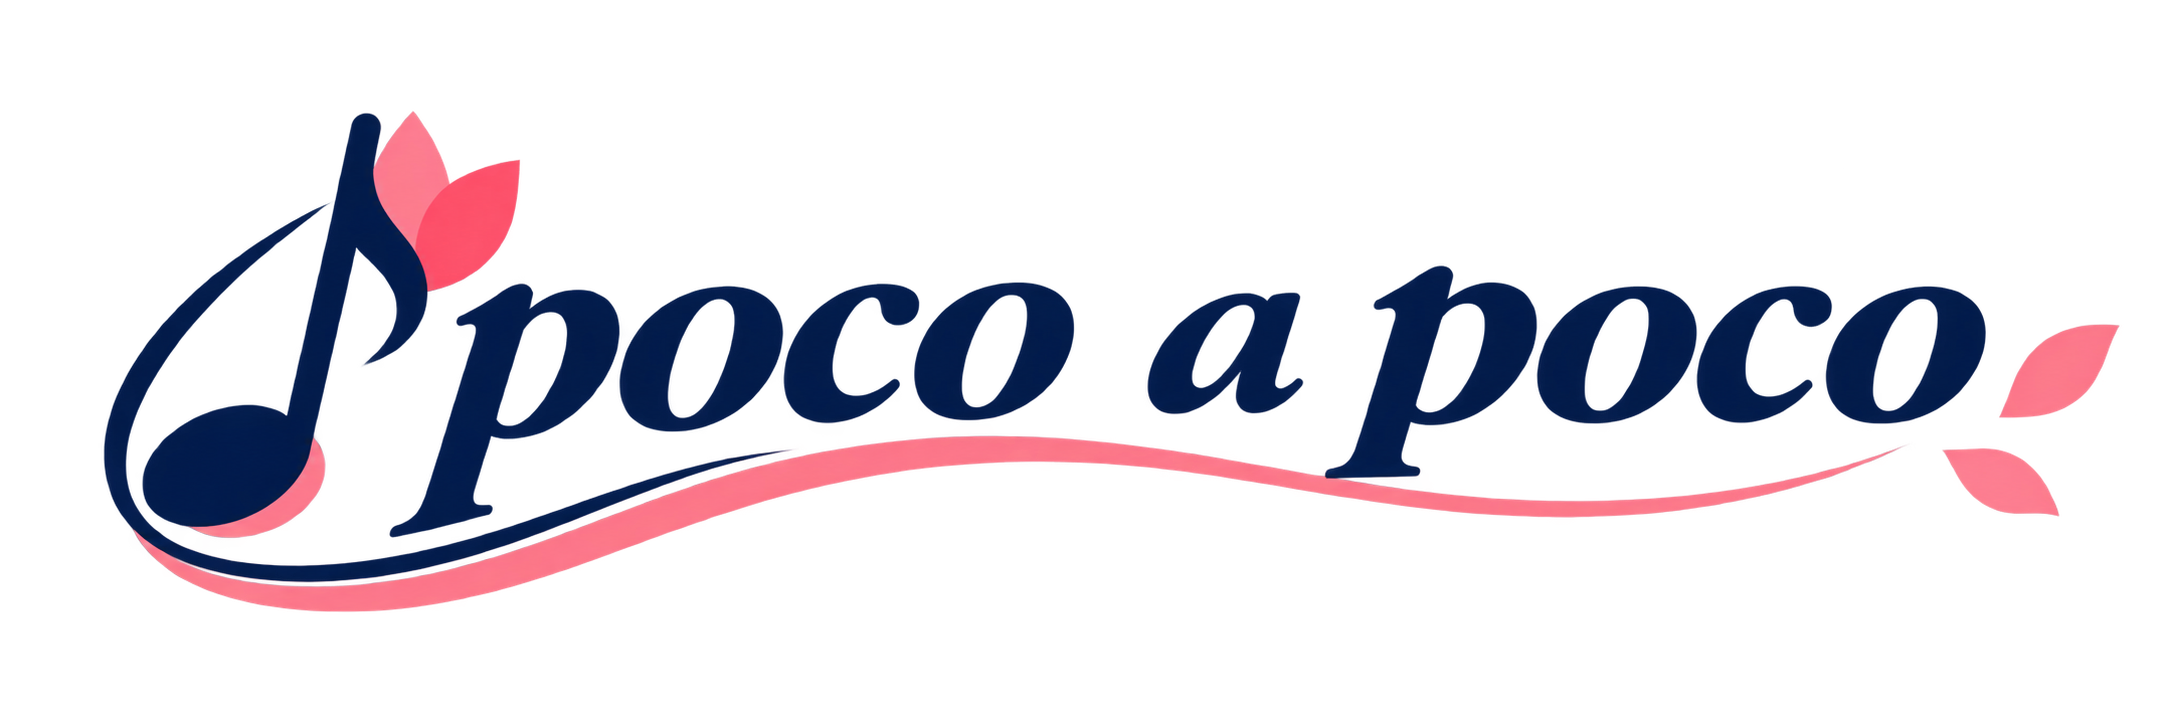
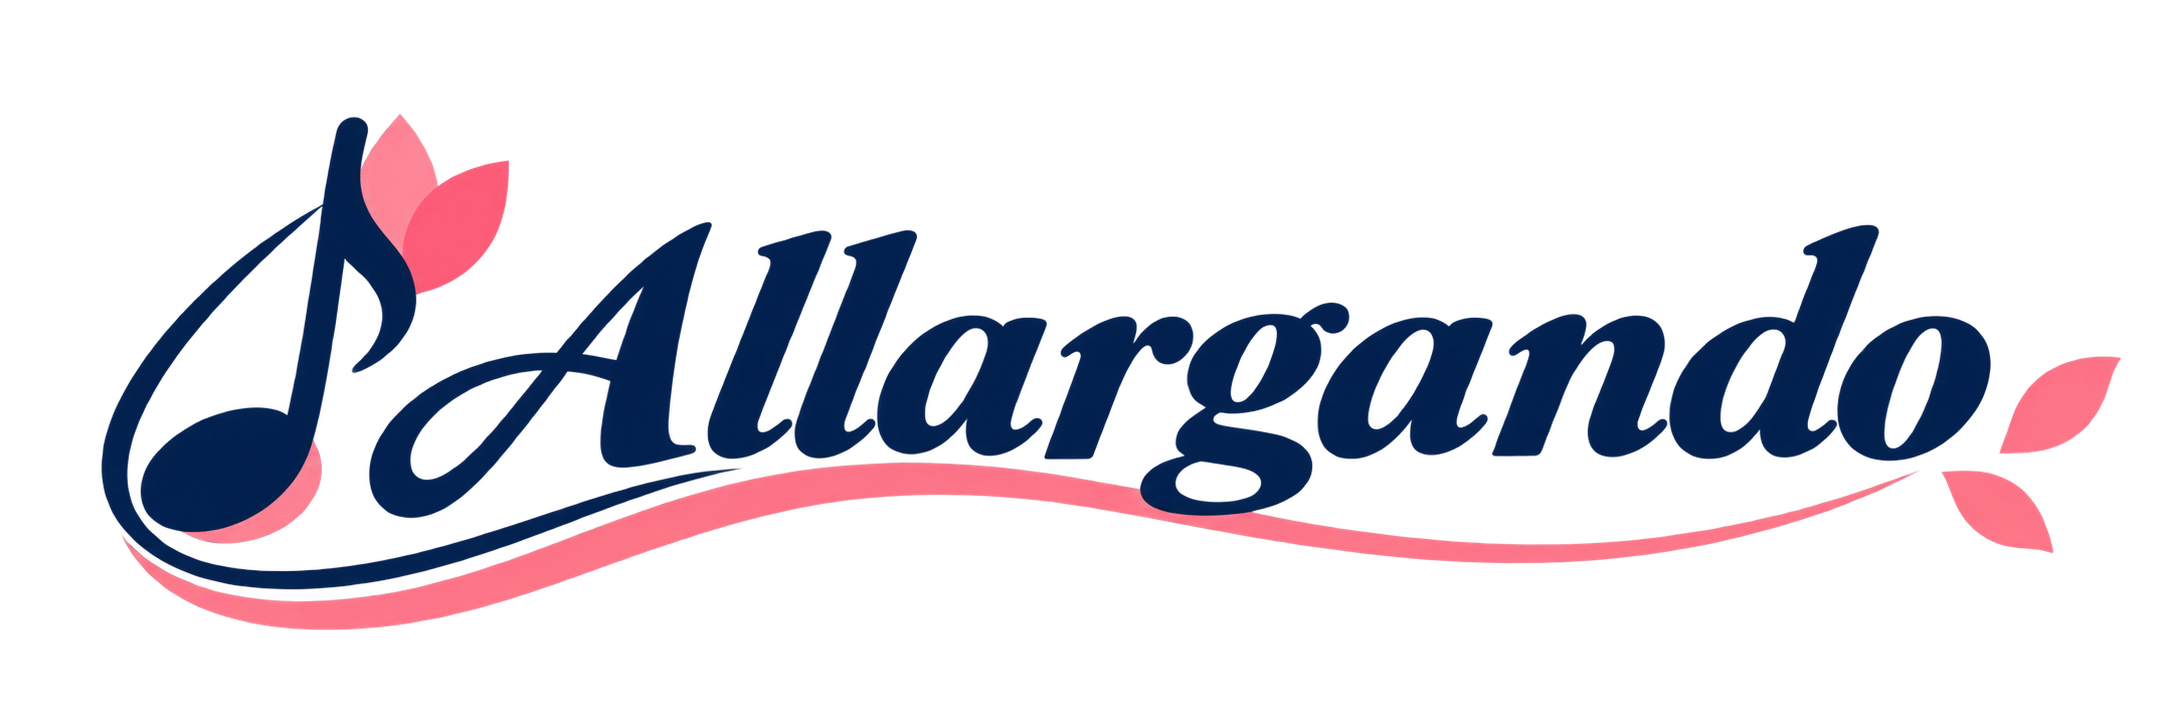
앱 이름 Allargando·패키지명 반영

Changed region(s): [[0.0308, 0.1519, 0.9871, 0.8812]]

diff --git a/backend/obri/src/test/java/com/obri_back/obri/user/service/NicknamePolicyTest.java b/backend/obri/src/test/java/com/obri_back/obri/user/service/NicknamePolicyTest.java
@@ -31,7 +31,7 @@ class NicknamePolicyTest {
 
     // 예약어는 대소문자를 가리지 않고, 형식 오류와 같은 문구로 거절한다
     @ParameterizedTest
-    @ValueSource(strings = {"me", "ME", "Admin", "administrator", "root", "system", "관리자", "운영자", "운영팀", "공식", "Obri", "PocoAPoco"})
+    @ValueSource(strings = {"me", "ME", "Admin", "administrator", "root", "system", "관리자", "운영자", "운영팀", "공식", "Obri", "Allargando", "알라르간도"})
     void normalizeAndValidate_rejectsReservedWords(String nickname) {
         assertThatThrownBy(() -> NicknamePolicy.normalizeAndValidate(nickname))
                 .isInstanceOf(BadRequestException.class)

diff --git a/backend/obri/src/main/java/com/obri_back/obri/user/service/NicknamePolicy.java b/backend/obri/src/main/java/com/obri_back/obri/user/service/NicknamePolicy.java
@@ -23,7 +23,7 @@ public final class NicknamePolicy {
     // 운영 사칭·경로 충돌을 막는 예약어(소문자). 목록 변경은 코드 수정 후 재배포 — 이미 쓰는 닉네임에는 영향 없음
     private static final Set<String> RESERVED = Set.of(
             "me", "admin", "administrator", "root", "system",
-            "관리자", "운영자", "운영팀", "공식", "obri", "pocoapoco");
+            "관리자", "운영자", "운영팀", "공식", "obri", "allargando", "알라르간도");
 
     private NicknamePolicy() {
     }

diff --git a/README.md b/README.md
@@ -1,4 +1,4 @@
-# Poco a Poco
+# Allargando
 
 악기 취미생이 앙상블·버스킹 멤버를 **무보수로** 모집하는 서비스. Spring Boot 백엔드 + Expo(React Native) 프론트엔드 모노레포이며, 1인 개발로 기획부터 백엔드 설계, 인증 연동, 프론트 API 연동, CI 구축까지 전체 라이프사이클을 진행했다.
 
@@ -121,5 +121,5 @@ com.obri_back.obri
 
 - `ApplicationService`에 남아있는 `PostService → ApplicationService` 서비스 계층 의존 제거.
 - Auth 회원가입 응답(`POST /api/auth/register`)을 명세(`createdAt`만 반환)에 맞게 경량화.
-- 앱 이름을 "Obri"에서 "Poco a Poco"로 사용자 노출 영역 전체에 반영(현재 백엔드 로직·데이터는 전환 완료, 프론트 브랜드 표기만 남음).
+- 앱 이름을 "Obri"에서 "Allargando"로 사용자 노출 영역 전체에 반영(현재 백엔드 로직·데이터는 전환 완료, 프론트 브랜드 표기만 남음).
 - 소셜 로그인, 연습 피드백(LLM), 맞춤 모집글 추천, 매너 점수, 연주회 찜하기 기능.

diff --git a/Frontend/ObriApp/README.md b/Frontend/ObriApp/README.md
@@ -1,6 +1,6 @@
-# Poco a Poco Frontend (Expo)
+# Allargando Frontend (Expo)
 
-악기 취미생이 앙상블·버스킹 멤버를 무보수로 모집하는 서비스 **Poco a Poco**(구 Obri)의 모바일 앱.
+악기 취미생이 앙상블·버스킹 멤버를 무보수로 모집하는 서비스 **Allargando**(구 Obri, Poco a Poco)의 모바일 앱.
 Expo Router 기반. 백엔드 실행 방법은 [`../../backend/README.md`](../../backend/README.md) 참고.
 
 ## 시작하기

diff --git a/backend/README.md b/backend/README.md
@@ -1,4 +1,4 @@
-# Poco a Poco Backend
+# Allargando Backend
 
 Spring Boot 3.5 (Java 21) + PostgreSQL 16 + Flyway. 코드·상세 규칙은 [`../CLAUDE.md`](../CLAUDE.md) 참고.
 
